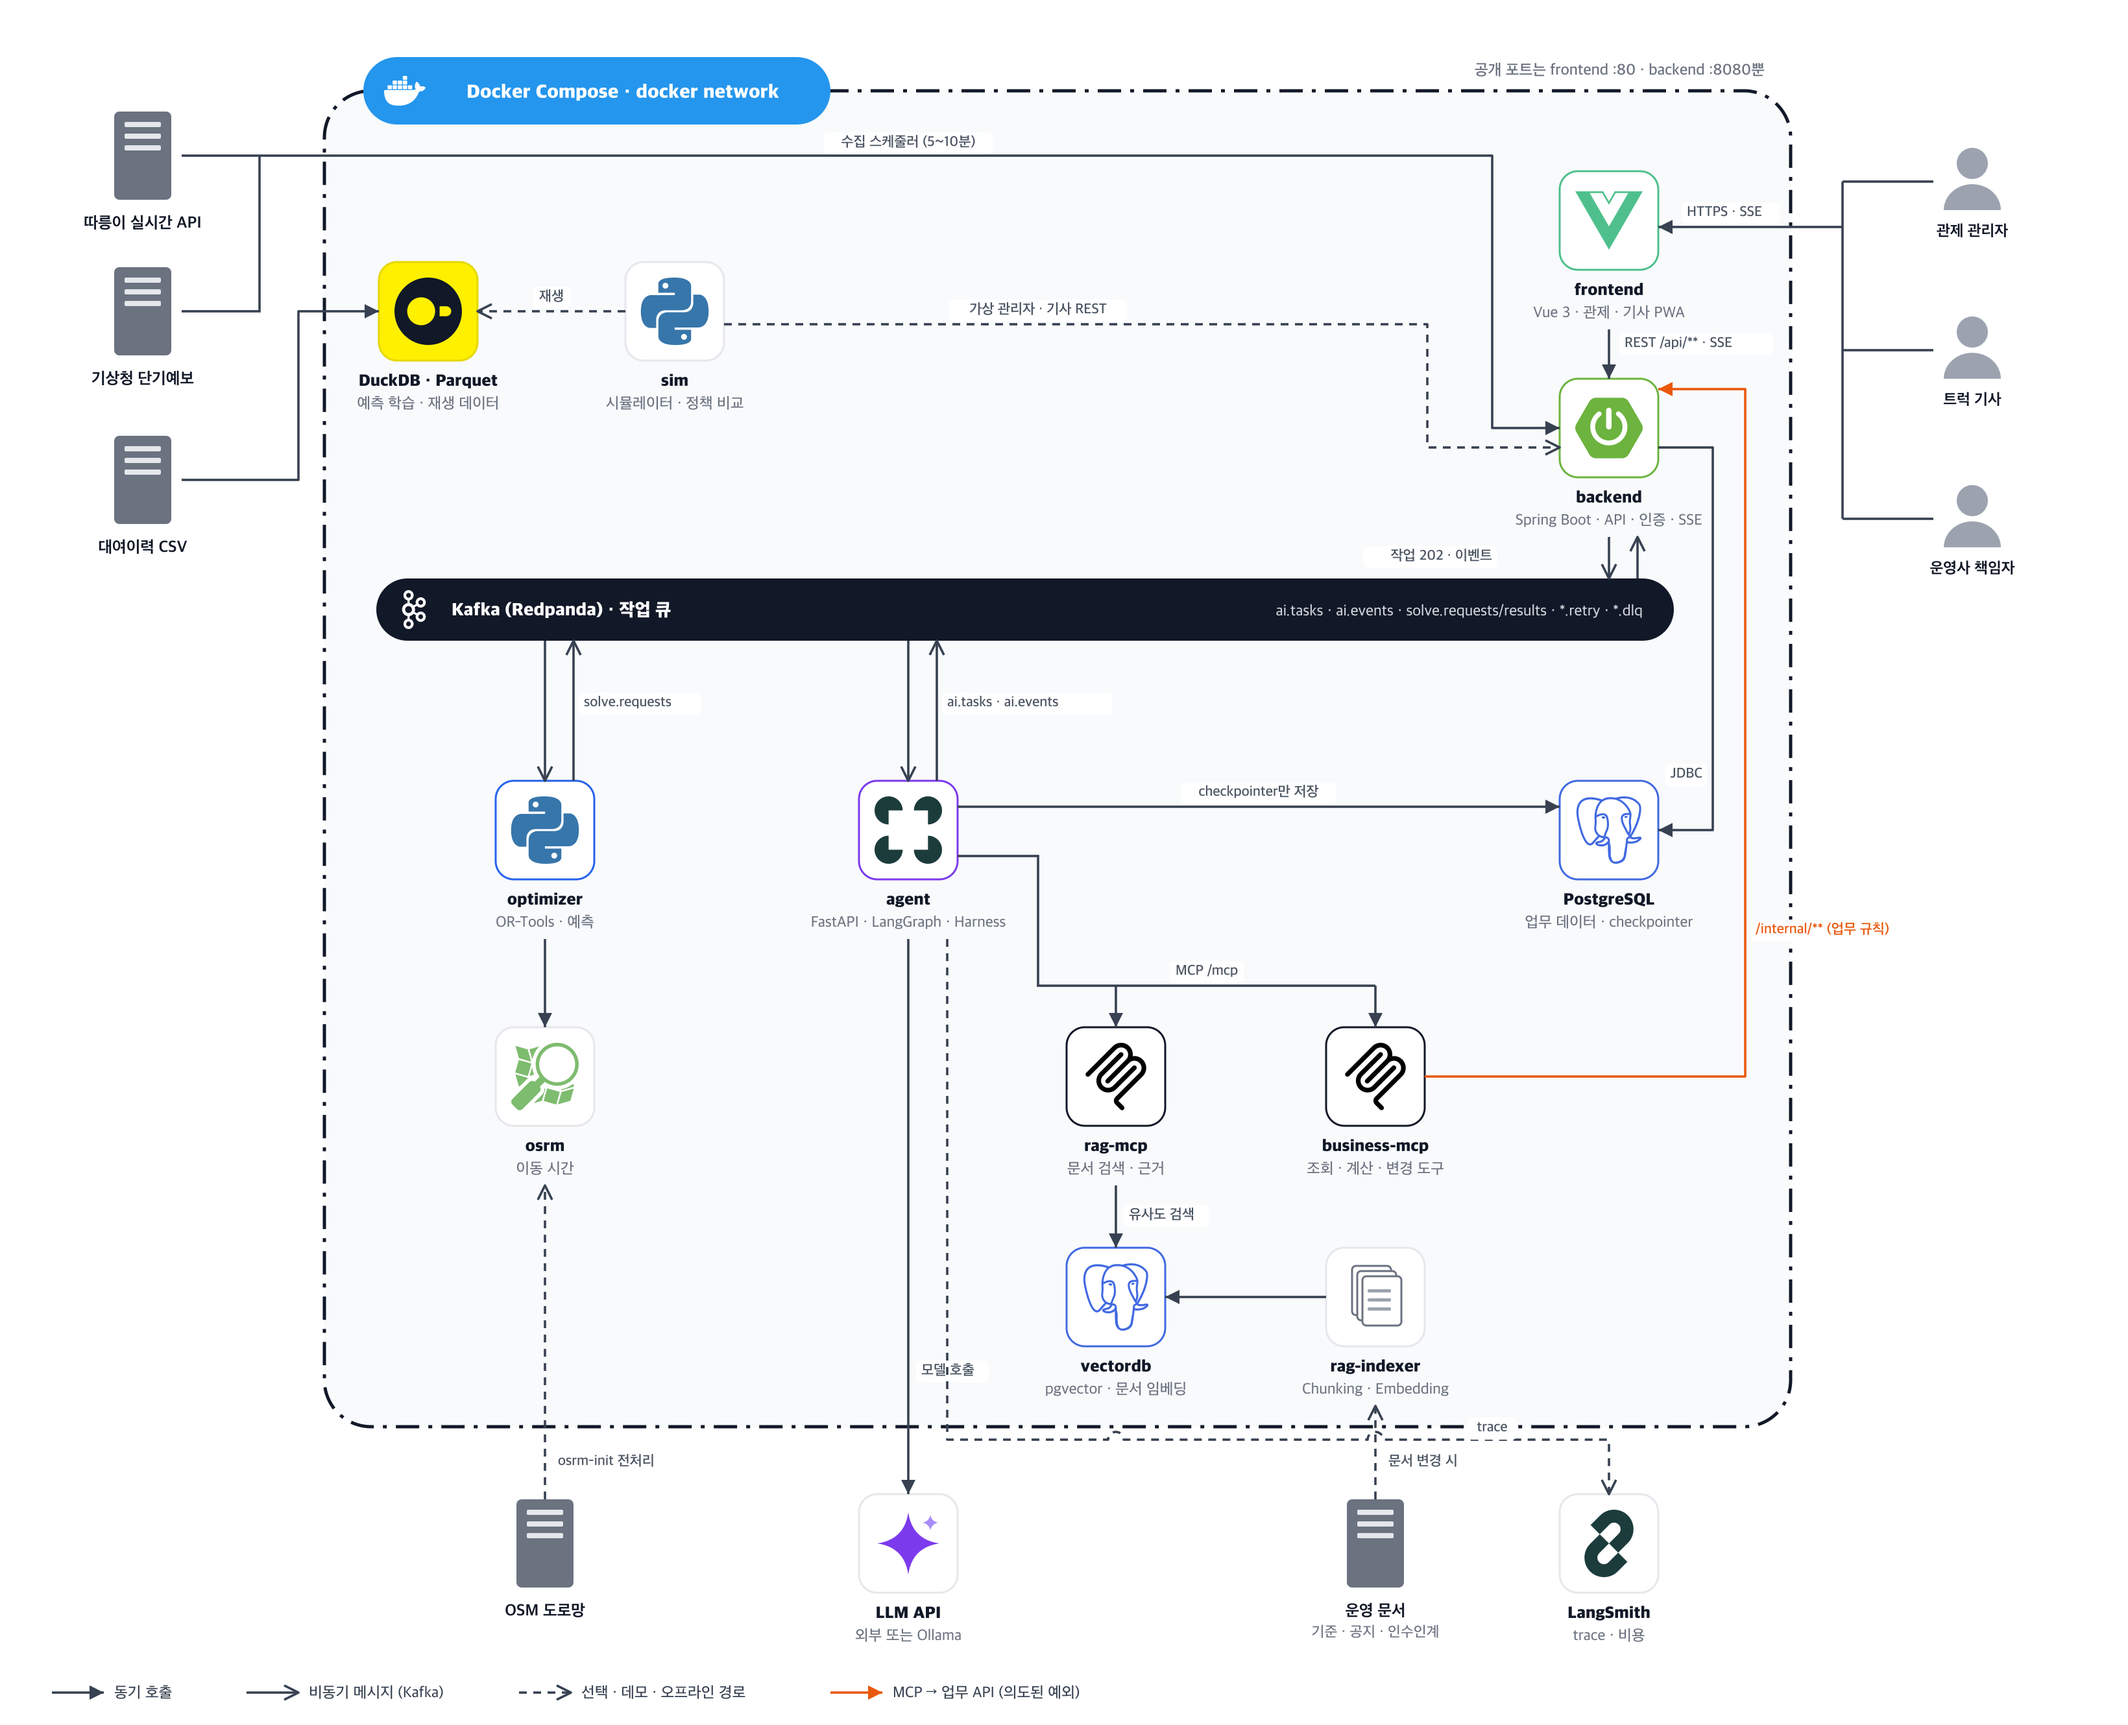
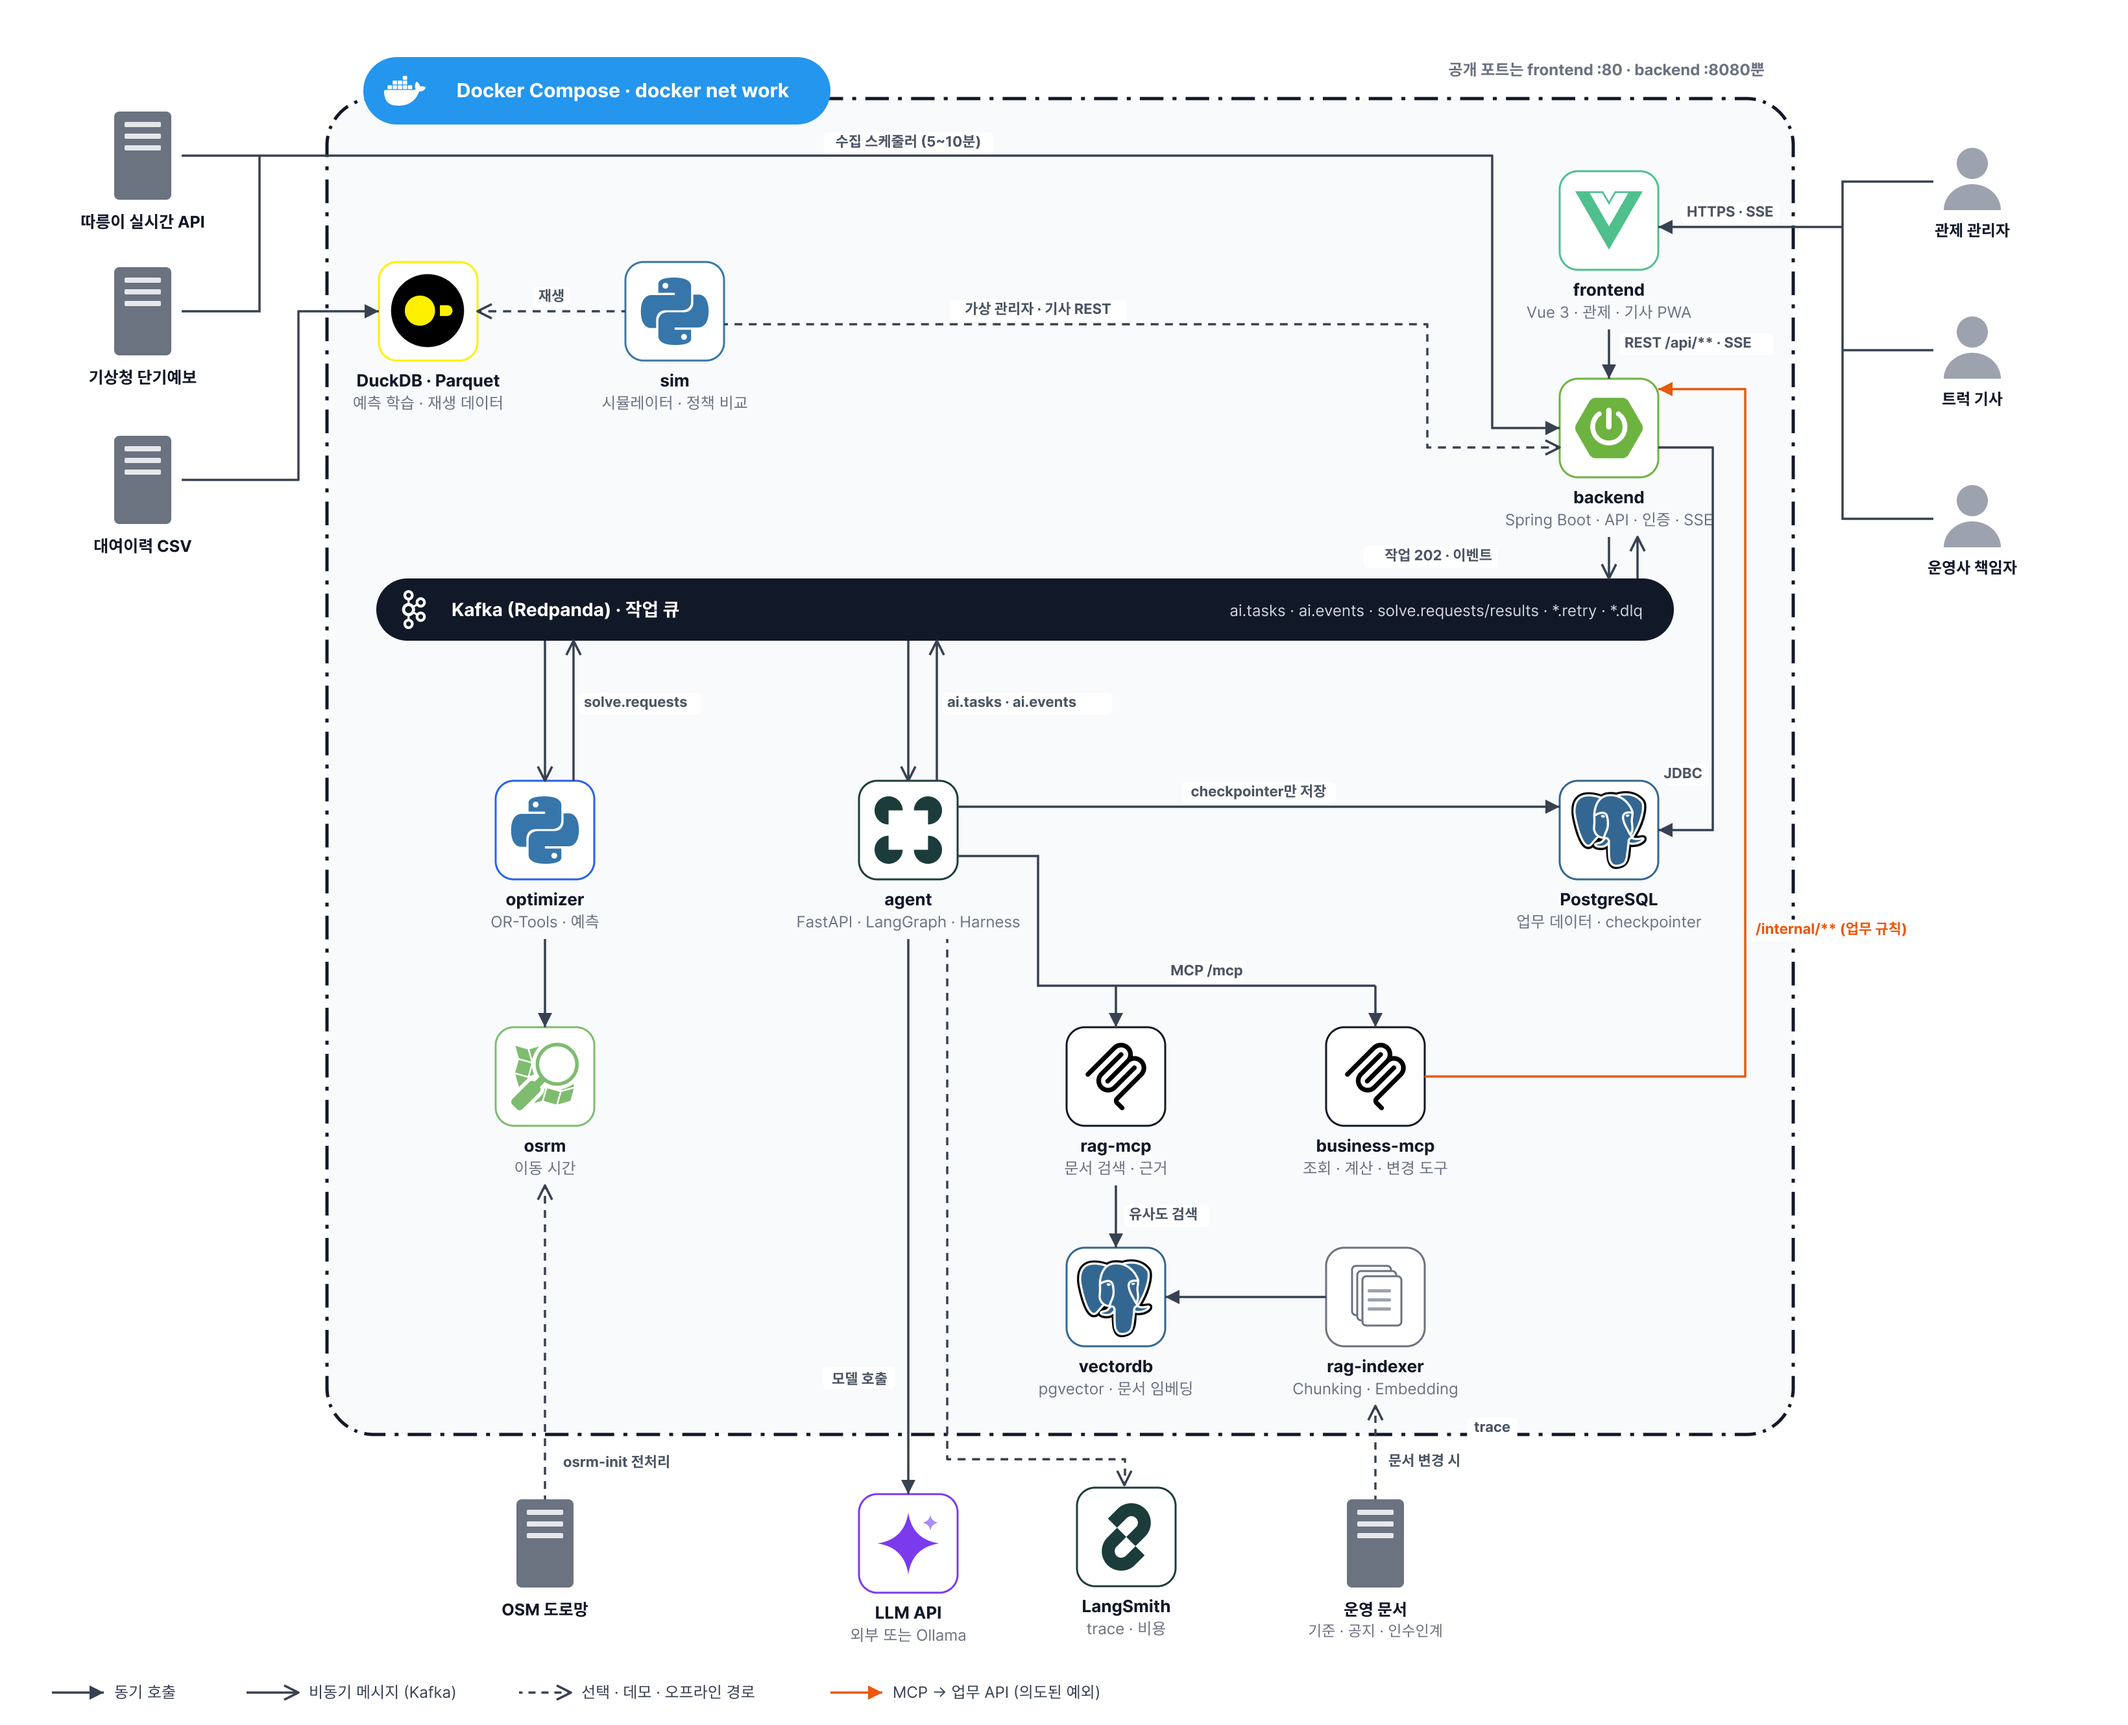
docs: 구성도를 Figma 수정본으로 교체, 역할 문서에서 명세 담당과 담당자 정보 제거

diff --git a/docs/ROLES.md b/docs/ROLES.md
@@ -6,22 +6,22 @@
 | 작성일 | 2026-10-20 |
 | 기준 | [전체 구성도](images/architecture.png), [뷰 7종](images/views/), AI-Agent Capstone(+MCP) 평가표 |
 
-> 담당자 이름은 팀에서 채운다. 추천 배치: **5 최적화·인프라는 민규 님**(기존 `or-tools/rebalancing` 작성), **6 데이터 분석·시뮬레이터는 역산 분석 작성자**. 프론트엔드 전담은 두지 않고, 각자 자기 기능의 화면을 만든다.
+> 프론트엔드 전담은 두지 않고, 각자 자기 기능의 화면을 만든다.
 
 ---
 
 ## 1. 한눈에 보기
 
-| # | 역할 | 맡는 컨테이너·모듈 | 맡는 화면 | 평가표 항목 (배점) | 담당자 |
-| --- | --- | --- | --- | --- | --- |
-| 1 | 에이전트 그래프 | `agent` (LangGraph) | 관제 작업 화면, 승인 카드 | AI Agent 설계 15, 구현 15 | |
-| 2 | Harness · 평가 · 품질 | `agent` (Harness), LangSmith | 작업 이력, 기사 화면 | Harness 20 | |
-| 3 | MCP · RAG | `business-mcp`, `rag-mcp`, `vectordb`, `rag-indexer` | 근거 패널 | MCP 설계·구현 20 | |
-| 4 | 백엔드 | `backend` (Spring Boot) | 공통 뼈대 (로그인, API, SSE) | 인증 10, 대기열 가산점 10 | |
-| 5 | 최적화 · 인프라 | `optimizer`, `osrm`, `docker-compose`, CI | 지도 · 계획 검토 | 아키텍처 설계 10 (공동) | |
-| 6 | 데이터 분석 · 시뮬레이터 | `analysis/`, 예측 모델, `sim` | 성과 리포트 | Biz. 아이템 10 (근거), 아키텍처 (공동) | |
+| # | 역할 | 맡는 컨테이너·모듈 | 맡는 화면 | 평가표 항목 (배점) |
+| --- | --- | --- | --- | --- |
+| 1 | 에이전트 그래프 | `agent` (LangGraph) | 관제 작업 화면, 승인 카드 | AI Agent 설계 15, 구현 15 |
+| 2 | Harness · 평가 · 품질 | `agent` (Harness), LangSmith | 작업 이력, 기사 화면 | Harness 20 |
+| 3 | MCP · RAG | `business-mcp`, `rag-mcp`, `vectordb`, `rag-indexer` | 근거 패널 | MCP 설계·구현 20 |
+| 4 | 백엔드 | `backend` (Spring Boot) | 공통 뼈대 (로그인, API, SSE) | 인증 10, 대기열 가산점 10 |
+| 5 | 최적화 · 인프라 | `optimizer`, `osrm`, `docker-compose`, CI | 지도 · 계획 검토 | 아키텍처 설계 10 (공동) |
+| 6 | 데이터 분석 · 시뮬레이터 | `analysis/`, 예측 모델, `sim` | 성과 리포트 | Biz. 아이템 10 (근거), 아키텍처 (공동) |
 
-**기획 리드:** PRD·아키텍처 문서 갱신, 현장 인터뷰, 발표 준비를 책임진다. 추천은 6 데이터 분석(근거 수치와 성과 지표를 가장 많이 가짐).
+**기획 리드:** PRD·아키텍처 문서 갱신, 현장 인터뷰, 발표 준비를 책임진다. 팀에서 한 명을 정한다.
 
 ---
 
@@ -139,31 +139,12 @@ flowchart LR
 - [ ] 시뮬레이터: 대여이력 재생, 정책 4종 (재배치 없음, 단순 규칙, 현행 운영 재현, 본 시스템)
 - [ ] 지표: 빈 대여소-분(주 지표), 과적재 대여소-분, 트럭-시간당 해소 대수
 - [ ] 화면: 성과 리포트 (정책 4종 비교)
-- [ ] 기획 리드 (추천): PRD·아키텍처 갱신, 인터뷰, 발표
 
 **완료 기준:** 같은 날짜·같은 트럭 수에서 네 정책의 지표표가 나오고, 예측 모델이 베이스라인보다 낫다는 검증 결과가 있다.
 
 ---
 
-## 4. 명세서 담당
-
-계약을 정하는 사람이 명세를 쓴다. 위치는 `docs/specs/`, 목차는 공통(목적 · 범위 · 인터페이스 · 규칙 · 오류 · 예시 · 변경 이력 · 담당자).
-
-| # | 명세서 | 형식 |
-| --- | --- | --- |
-| 1 | Agent 설계 (State, 노드·분기·반복, `interrupt` 위치), **진행 이벤트**, 프롬프트 목록 | Markdown, 이벤트 JSON Schema |
-| 2 | Harness (8요소 기준값·변경 이력), 평가 (평가셋·지표·전후 양식), 품질 (ISO/IEC 25010) | Markdown |
-| 3 | **MCP 도구** (이름·설명·입출력·읽기/변경·오류·호출 API), Resource, RAG (문서·chunk·임베딩) | Markdown, `tools/list` 출력 |
-| 4 | **API** (`/api/**`, 작업 API, `/internal/**`), 인증·권한, DB (ERD·테이블 소유), **Kafka** (토픽·키·메시지·재시도), 업무 규칙 | OpenAPI YAML, JSON Schema, Markdown |
-| 5 | **최적화** (`solve` 입출력·제약·벌점·파라미터), 배포 (서비스·포트·환경변수·기동 순서) | JSON Schema, Markdown |
-| 6 | 데이터 (출처·주기·필드 사전·정제·역산 기준), 예측 모델 (피처·학습/검증 기간·지표), 시뮬레이터 (재생 규칙·정책·KPI 식) | Markdown |
-| 공동 | 화면 명세는 각 화면 담당이 자기 부분을 쓴다. PRD·아키텍처는 기획 리드가 갱신한다 | Markdown |
-
-**M1에 먼저 쓰는 계약 명세 5종** (굵게 표시): API, 진행 이벤트, MCP 도구, `/internal`·Kafka, `solve`·`predict()`. 기계가 읽는 형식(OpenAPI, JSON Schema)을 원본으로 두고, 코드 타입은 여기서 생성한다.
-
----
-
-## 5. 화면 공동 개발 규칙
+## 4. 화면 공동 개발 규칙
 
 - 4가 M2에 공통 뼈대(로그인, `useApi()`, `useTaskStream()`)를 올리기 전에는 각자 화면을 시작하지 않는다.
 - UI 라이브러리는 M1에 하나로 정한다.
@@ -173,7 +154,7 @@ flowchart LR
 
 ---
 
-## 6. 운영 규칙
+## 5. 운영 규칙
 
 - **CODEOWNERS:** 모듈·화면 폴더마다 담당자 한 명이 PR 승인권을 가진다. 계약 명세는 쓰는 사람과 쓰는 쪽 대표 두 명 이상 승인.
 - **주간 통합 데모:** 매주 `docker compose up` 한 번으로 전체가 뜨는지 확인한다.
